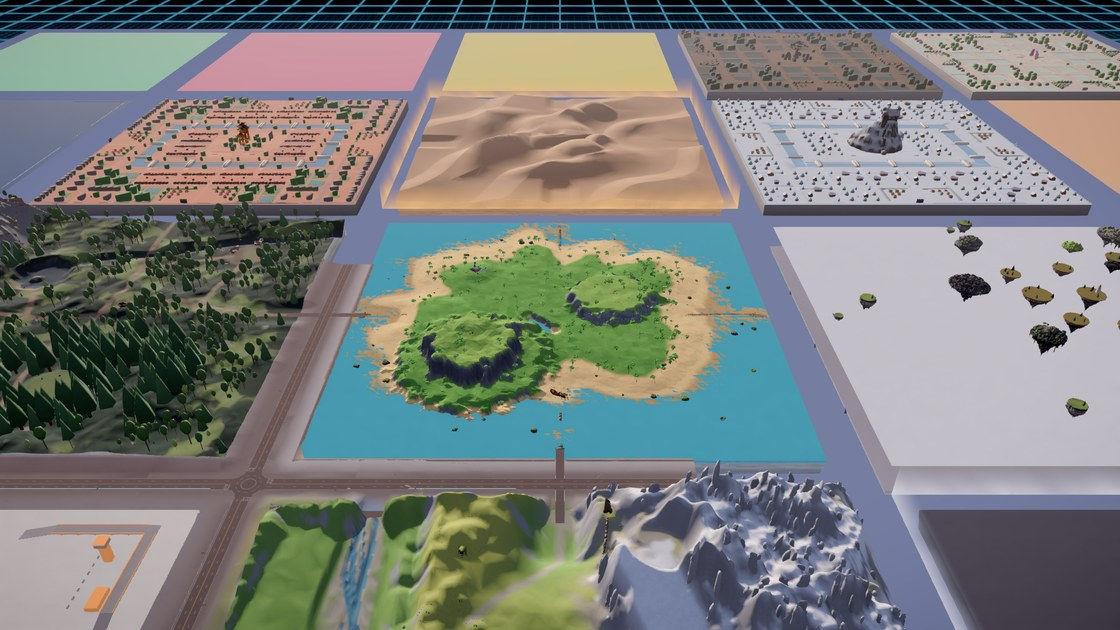
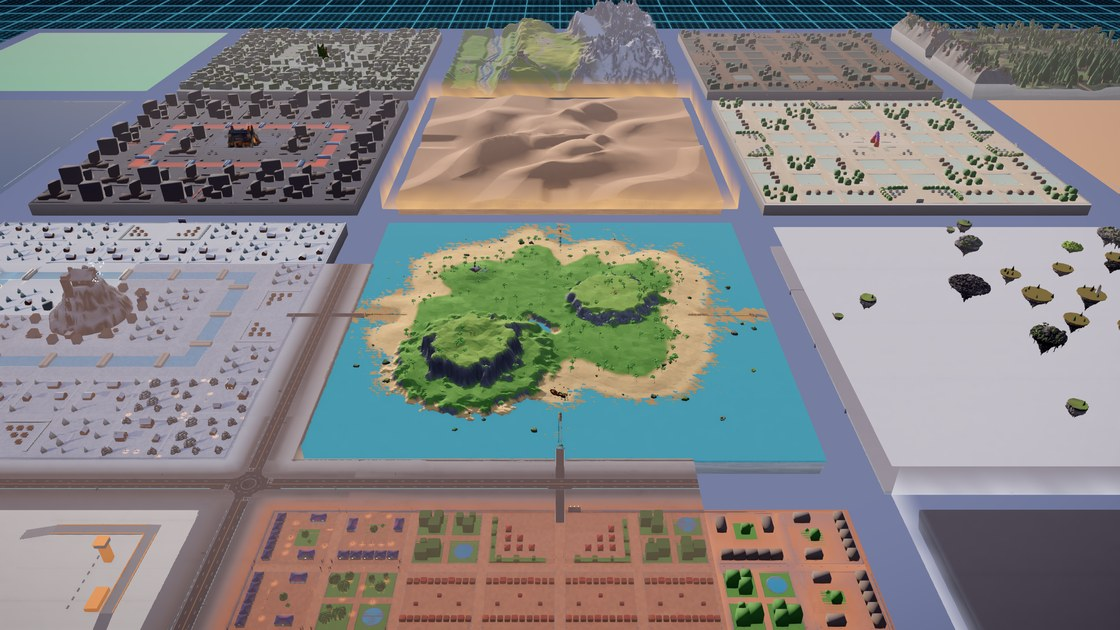
feat(title): re-shoot hero with the built plots
G986: after the grid swap (5da5599c18) the cells the G625 camera
shows biggest hold Night Market, Frostline, Ember Forge and Coral
Drift, with Mosslight, Nalati, Bayou and Pine in the back row.
Re-shot at the shipped camera (eye 805/520/0 toward Driftwood, 62 deg
square, 43 deg landscape) on d606937937, desktop tier, muted.

Board art/main-menu-hero/round-9-g986/board.jpg: A shipped (OB9,
pastel back row), B re-shoot. Ruled B under G872; Jake's pick
overrides. Only the far Jungle corner and the Thin Ice / Fossil edges
stay unbuilt in frame, about 1 % each.

Square 237,595 B, landscape 158,181 B (both under 250 KB); native
launch image launch-1206x2622-e825698d6bae.png (1,642,009 B, pin
refreshed). Boot byte/version tables carry only the three title rows.
Title, first-paint and phone-route tests pass (11 files, 72).

Assisted-by: Claude Code:claude-opus-5-5

diff --git a/index.html b/index.html
@@ -14,13 +14,13 @@
     <link rel="apple-touch-icon" sizes="180x180" href="/apple-touch-icon.png" />
     <!-- iPhone 16/17 Pro: iOS paints this before a standalone document exists.
          Rendered from this same shell by scripts/generate-title-launch.mjs. -->
-    <link rel="apple-touch-startup-image" href="/assets/title/launch-1206x2622-3bfce07fbafa.png" media="(device-width: 402px) and (device-height: 874px) and (-webkit-device-pixel-ratio: 3) and (orientation: portrait)" />
+    <link rel="apple-touch-startup-image" href="/assets/title/launch-1206x2622-e825698d6bae.png" media="(device-width: 402px) and (device-height: 874px) and (-webkit-device-pixel-ratio: 3) and (orientation: portrait)" />
     <link rel="icon" type="image/png" href="/favicon.png" />
     <link rel="manifest" href="/manifest.webmanifest" />
     <script>
       // Plain launch: the shard selector is the first screen, with no world or loading panel underneath it.
       // BEGIN TITLE URLS
-      const titleAssetURLs = {"/assets/title/driftwood-isle-portrait.jpg":"/assets/title/driftwood-isle-portrait-e9d5c9aedd5c5920.jpg","/assets/title/launch-1206x2622-3bfce07fbafa.png":"/assets/title/launch-1206x2622-3bfce07fbafa.png","/assets/title/main-crossroads-landscape.jpg":"/assets/title/main-crossroads-landscape-431eb7ab2b70ae19.jpg","/assets/title/main-crossroads-square.jpg":"/assets/title/main-crossroads-square-691321e9f16e657d.jpg","/assets/title/nalati-grasslands-portrait.jpg":"/assets/title/nalati-grasslands-portrait-5ac0c2e430a5a22b.jpg","/assets/title/nine-dragon-stack-portrait.jpg":"/assets/title/nine-dragon-stack-portrait-d92d65e333c1ccba.jpg","/assets/title/pine-hollow-portrait.jpg":"/assets/title/pine-hollow-portrait-30a60f74489265a0.jpg"};
+      const titleAssetURLs = {"/assets/title/driftwood-isle-portrait.jpg":"/assets/title/driftwood-isle-portrait-e9d5c9aedd5c5920.jpg","/assets/title/launch-1206x2622-e825698d6bae.png":"/assets/title/launch-1206x2622-e825698d6bae.png","/assets/title/main-crossroads-landscape.jpg":"/assets/title/main-crossroads-landscape-768a762fa0f0475d.jpg","/assets/title/main-crossroads-square.jpg":"/assets/title/main-crossroads-square-2559d9ff9991a043.jpg","/assets/title/nalati-grasslands-portrait.jpg":"/assets/title/nalati-grasslands-portrait-5ac0c2e430a5a22b.jpg","/assets/title/nine-dragon-stack-portrait.jpg":"/assets/title/nine-dragon-stack-portrait-d92d65e333c1ccba.jpg","/assets/title/pine-hollow-portrait.jpg":"/assets/title/pine-hollow-portrait-30a60f74489265a0.jpg"};
       // END TITLE URLS
       const homeParams = new URLSearchParams(location.search);
       // The environment flags select no level (src/bootRoute.ts keeps the same list): a launch with only them is the title.
@@ -68,9 +68,9 @@
       html.standalone #ws-top-edge { display: block; position: fixed; top: 0; left: 0; right: 0; height: 12px; z-index: 2147483647; background: rgba(5, 8, 16, 0.004); pointer-events: none; }
       .ws-launch { display: none; }
       html.title-first .ws-launch { position: fixed; inset: 0; z-index: 90; display: flex; flex-direction: column; justify-content: space-between; overflow: hidden; background: #0b1622; color: #eaf8ff; font-family: Rajdhani, system-ui, sans-serif; }
-      .ws-launch-hero { position: absolute; inset: 0; background: url('/assets/title/main-crossroads-landscape-431eb7ab2b70ae19.jpg') center / cover no-repeat; }
+      .ws-launch-hero { position: absolute; inset: 0; background: url('/assets/title/main-crossroads-landscape-768a762fa0f0475d.jpg') center / cover no-repeat; }
       .ws-launch-brand { position: relative; margin: calc(24px + env(safe-area-inset-top, 0px)) 24px 0; font-size: 44px; font-weight: 700; line-height: 1; letter-spacing: .16em; text-shadow: 0 0 18px #8fe3ff73; }
-      @media (orientation: portrait) { .ws-launch-hero { top: 50%; bottom: auto; width: 100%; aspect-ratio: 1; transform: translateY(-50%); background-image: url('/assets/title/main-crossroads-square-691321e9f16e657d.jpg'); } }
+      @media (orientation: portrait) { .ws-launch-hero { top: 50%; bottom: auto; width: 100%; aspect-ratio: 1; transform: translateY(-50%); background-image: url('/assets/title/main-crossroads-square-2559d9ff9991a043.jpg'); } }
       @font-face{font-family:'JetBrains Mono';font-style:normal;font-weight:400;font-display:swap;src:url(/fonts/jetbrains-mono-cyrillic-ext.woff2) format('woff2');unicode-range:U+0460-052F, U+1C80-1C8A, U+20B4, U+2DE0-2DFF, U+A640-A69F, U+FE2E-FE2F}
       @font-face{font-family:'JetBrains Mono';font-style:normal;font-weight:400;font-display:swap;src:url(/fonts/jetbrains-mono-cyrillic.woff2) format('woff2');unicode-range:U+0301, U+0400-045F, U+0490-0491, U+04B0-04B1, U+2116}
       @font-face{font-family:'JetBrains Mono';font-style:normal;font-weight:400;font-display:swap;src:url(/fonts/jetbrains-mono-greek.woff2) format('woff2');unicode-range:U+0370-0377, U+037A-037F, U+0384-038A, U+038C, U+038E-03A1, U+03A3-03FF}

diff --git a/native.html b/native.html
@@ -14,12 +14,12 @@
     <link rel="apple-touch-icon" sizes="180x180" href="/apple-touch-icon.png" />
     <!-- iPhone 16/17 Pro: iOS paints this before a standalone document exists.
          Rendered from this same shell by scripts/generate-title-launch.mjs. -->
-    <link rel="apple-touch-startup-image" href="/assets/title/launch-1206x2622-3bfce07fbafa.png" media="(device-width: 402px) and (device-height: 874px) and (-webkit-device-pixel-ratio: 3) and (orientation: portrait)" />
+    <link rel="apple-touch-startup-image" href="/assets/title/launch-1206x2622-e825698d6bae.png" media="(device-width: 402px) and (device-height: 874px) and (-webkit-device-pixel-ratio: 3) and (orientation: portrait)" />
     <link rel="icon" type="image/png" href="/favicon.png" />
     <script>
       // Plain launch: the shard selector is the first screen, with no world or loading panel underneath it.
       // BEGIN TITLE URLS
-      const titleAssetURLs = {"/assets/title/driftwood-isle-portrait.jpg":"/assets/title/driftwood-isle-portrait-e9d5c9aedd5c5920.jpg","/assets/title/launch-1206x2622-3bfce07fbafa.png":"/assets/title/launch-1206x2622-3bfce07fbafa.png","/assets/title/main-crossroads-landscape.jpg":"/assets/title/main-crossroads-landscape-431eb7ab2b70ae19.jpg","/assets/title/main-crossroads-square.jpg":"/assets/title/main-crossroads-square-691321e9f16e657d.jpg","/assets/title/nalati-grasslands-portrait.jpg":"/assets/title/nalati-grasslands-portrait-5ac0c2e430a5a22b.jpg","/assets/title/nine-dragon-stack-portrait.jpg":"/assets/title/nine-dragon-stack-portrait-d92d65e333c1ccba.jpg","/assets/title/pine-hollow-portrait.jpg":"/assets/title/pine-hollow-portrait-30a60f74489265a0.jpg"};
+      const titleAssetURLs = {"/assets/title/driftwood-isle-portrait.jpg":"/assets/title/driftwood-isle-portrait-e9d5c9aedd5c5920.jpg","/assets/title/launch-1206x2622-e825698d6bae.png":"/assets/title/launch-1206x2622-e825698d6bae.png","/assets/title/main-crossroads-landscape.jpg":"/assets/title/main-crossroads-landscape-768a762fa0f0475d.jpg","/assets/title/main-crossroads-square.jpg":"/assets/title/main-crossroads-square-2559d9ff9991a043.jpg","/assets/title/nalati-grasslands-portrait.jpg":"/assets/title/nalati-grasslands-portrait-5ac0c2e430a5a22b.jpg","/assets/title/nine-dragon-stack-portrait.jpg":"/assets/title/nine-dragon-stack-portrait-d92d65e333c1ccba.jpg","/assets/title/pine-hollow-portrait.jpg":"/assets/title/pine-hollow-portrait-30a60f74489265a0.jpg"};
       // END TITLE URLS
       const homeParams = new URLSearchParams(location.search);
       // The environment flags select no level (src/bootRoute.ts keeps the same list): a launch with only them is the title.
@@ -67,9 +67,9 @@
       html.standalone #ws-top-edge { display: block; position: fixed; top: 0; left: 0; right: 0; height: 12px; z-index: 2147483647; background: rgba(5, 8, 16, 0.004); pointer-events: none; }
       .ws-launch { display: none; }
       html.title-first .ws-launch { position: fixed; inset: 0; z-index: 90; display: flex; flex-direction: column; justify-content: space-between; overflow: hidden; background: #0b1622; color: #eaf8ff; font-family: Rajdhani, system-ui, sans-serif; }
-      .ws-launch-hero { position: absolute; inset: 0; background: url('/assets/title/main-crossroads-landscape-431eb7ab2b70ae19.jpg') center / cover no-repeat; }
+      .ws-launch-hero { position: absolute; inset: 0; background: url('/assets/title/main-crossroads-landscape-768a762fa0f0475d.jpg') center / cover no-repeat; }
       .ws-launch-brand { position: relative; margin: calc(24px + env(safe-area-inset-top, 0px)) 24px 0; font-size: 44px; font-weight: 700; line-height: 1; letter-spacing: .16em; text-shadow: 0 0 18px #8fe3ff73; }
-      @media (orientation: portrait) { .ws-launch-hero { top: 50%; bottom: auto; width: 100%; aspect-ratio: 1; transform: translateY(-50%); background-image: url('/assets/title/main-crossroads-square-691321e9f16e657d.jpg'); } }
+      @media (orientation: portrait) { .ws-launch-hero { top: 50%; bottom: auto; width: 100%; aspect-ratio: 1; transform: translateY(-50%); background-image: url('/assets/title/main-crossroads-square-2559d9ff9991a043.jpg'); } }
       @font-face{font-family:'JetBrains Mono';font-style:normal;font-weight:400;font-display:swap;src:url(/fonts/jetbrains-mono-cyrillic-ext.woff2) format('woff2');unicode-range:U+0460-052F, U+1C80-1C8A, U+20B4, U+2DE0-2DFF, U+A640-A69F, U+FE2E-FE2F}
       @font-face{font-family:'JetBrains Mono';font-style:normal;font-weight:400;font-display:swap;src:url(/fonts/jetbrains-mono-cyrillic.woff2) format('woff2');unicode-range:U+0301, U+0400-045F, U+0490-0491, U+04B0-04B1, U+2116}
       @font-face{font-family:'JetBrains Mono';font-style:normal;font-weight:400;font-display:swap;src:url(/fonts/jetbrains-mono-greek.woff2) format('woff2');unicode-range:U+0370-0377, U+037A-037F, U+0384-038A, U+038C, U+038E-03A1, U+03A3-03FF}

diff --git a/src/game/boot/versions.generated.ts b/src/game/boot/versions.generated.ts
@@ -1272,9 +1272,9 @@ export const ASSET_VERSIONS: Readonly<Record<string, string>> = {
   "/assets/tex/wood_trunk_wall/nor_gl_1k.jpg": 'fc6aab0a',
   "/assets/tex/wood_trunk_wall/nor_gl_1k.phone.webp": 'a70475f6',
   "/assets/title/driftwood-isle-portrait.jpg": 'e9d5c9ae',
-  "/assets/title/launch-1206x2622-3bfce07fbafa.png": '3bfce07f',
-  "/assets/title/main-crossroads-landscape.jpg": '431eb7ab',
-  "/assets/title/main-crossroads-square.jpg": '691321e9',
+  "/assets/title/launch-1206x2622-e825698d6bae.png": 'e825698d',
+  "/assets/title/main-crossroads-landscape.jpg": '768a762f',
+  "/assets/title/main-crossroads-square.jpg": '2559d9ff',
   "/assets/title/nalati-grasslands-portrait.jpg": '5ac0c2e4',
   "/assets/title/nine-dragon-stack-portrait.jpg": 'd92d65e3',
   "/assets/title/pine-hollow-portrait.jpg": '30a60f74',

diff --git a/src/game/boot/bytes.generated.ts b/src/game/boot/bytes.generated.ts
@@ -2218,9 +2218,9 @@ export const PUBLIC_BYTES = {
   "/assets/tex/wood_trunk_wall/nor_gl_1k.jpg": 138432,
   "/assets/tex/wood_trunk_wall/nor_gl_1k.phone.webp": 59412,
   "/assets/title/driftwood-isle-portrait.jpg": 50826,
-  "/assets/title/launch-1206x2622-3bfce07fbafa.png": 1620358,
-  "/assets/title/main-crossroads-landscape.jpg": 165865,
-  "/assets/title/main-crossroads-square.jpg": 234760,
+  "/assets/title/launch-1206x2622-e825698d6bae.png": 1642009,
+  "/assets/title/main-crossroads-landscape.jpg": 158181,
+  "/assets/title/main-crossroads-square.jpg": 237595,
   "/assets/title/nalati-grasslands-portrait.jpg": 72112,
   "/assets/title/nine-dragon-stack-portrait.jpg": 77595,
   "/assets/title/pine-hollow-portrait.jpg": 52660,

diff --git a/art/main-menu-hero/round-9-g986/README.md b/art/main-menu-hero/round-9-g986/README.md
@@ -1,0 +1,22 @@
+# G986 · Title hero with the built plots in frame
+
+[Labelled A / B board](board.jpg), iPhone portrait. G986 (Jake 08:15, 08:40: *"the only reason we built the open
+plots is to put them in the 5x5 hero"*). The grid swap is 5da5599c18; the cells the G625 camera shows biggest now hold
+the built plots, and Pine and Nalati move to the back row (Jake's word; their content is untouched).
+
+| | What | Camera |
+|---|---|---|
+| A | The shipped hero (OB9, 48b08331c0): pastel Patchwork / Saltwind / Jungle in the back row, Nalati front | eye (805, 520, 0) → Driftwood (0, 0, 0), 62° square, 43° landscape |
+| B | **Re-shoot after the swap (shipped, G872)** | the same |
+
+B's cells: Night Market (1,0) front centre; Frostline (0,1), Ember Forge (-1,1), Coral Drift (-1,-1) beside Driftwood
+and Sunscar; Mosslight (-2,1), Nalati (-2,0), Lantern Bayou (-2,-1), Pine (-2,-2) in the back row. Driftwood, Far Reach,
+Sunscar, Template and Nine (1,-1) keep their cells. The only unbuilt plots left in frame are the far Jungle corner
+(-2,2) and the Thin Ice / Fossil edges (-1,±2), each about 1 % of the image; Saltwind and Patchwork are behind the camera.
+
+Real canvas captures of d606937937 (contains the swap), desktop tier, muted:
+`node scripts/capture-main-menu-hero.mjs --round=6 --only=SQ-NE-b,LS-NE-b --shipped-framing --url=<preview>`.
+Shipped as the 1120 × 1120 square (237,595 B) and 1120 × 630 landscape (158,181 B); the native launch image is
+`launch-1206x2622-e825698d6bae.png` (1,642,009 B) from `scripts/generate-title-launch.mjs`.
+
+**Ruling (G872):** B. Every big cell in the frame is now a built world; Jake's pick overrides.
